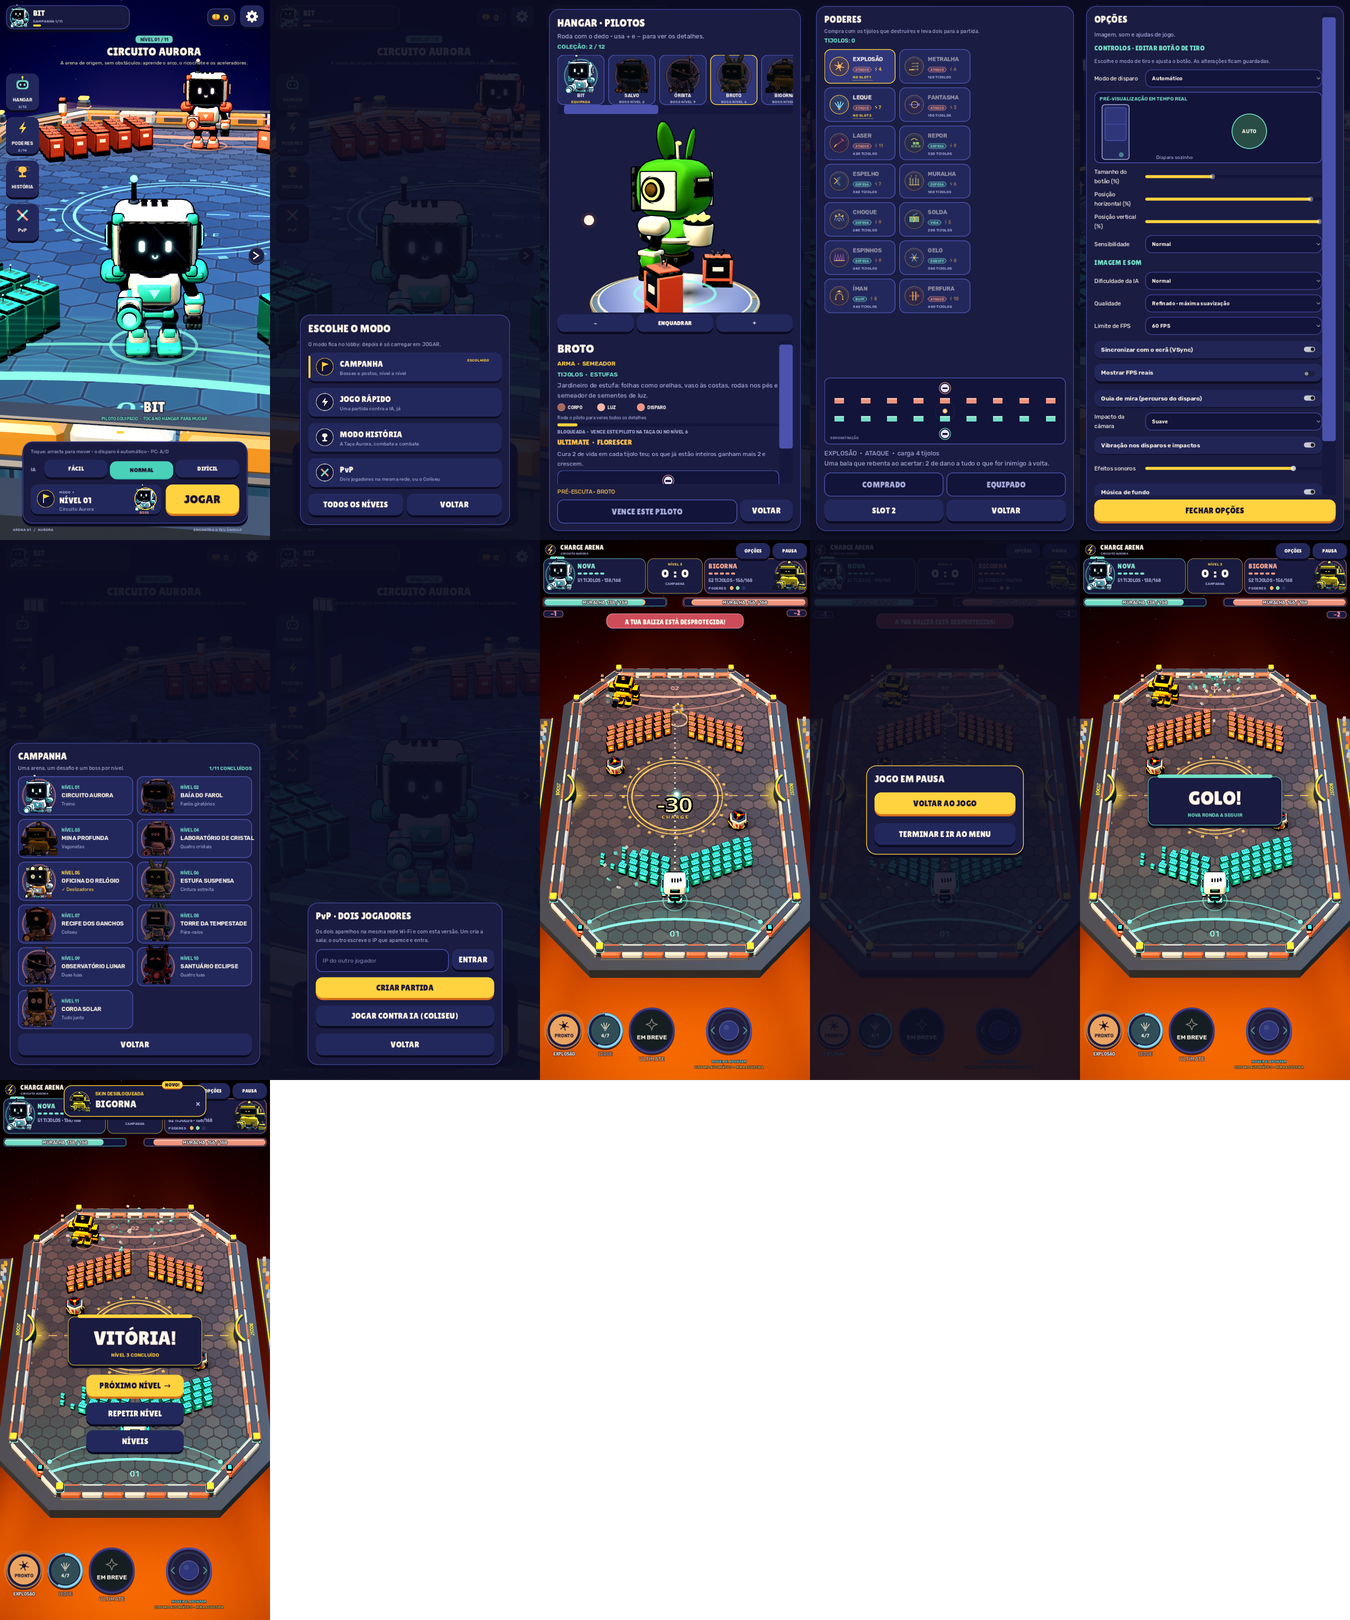
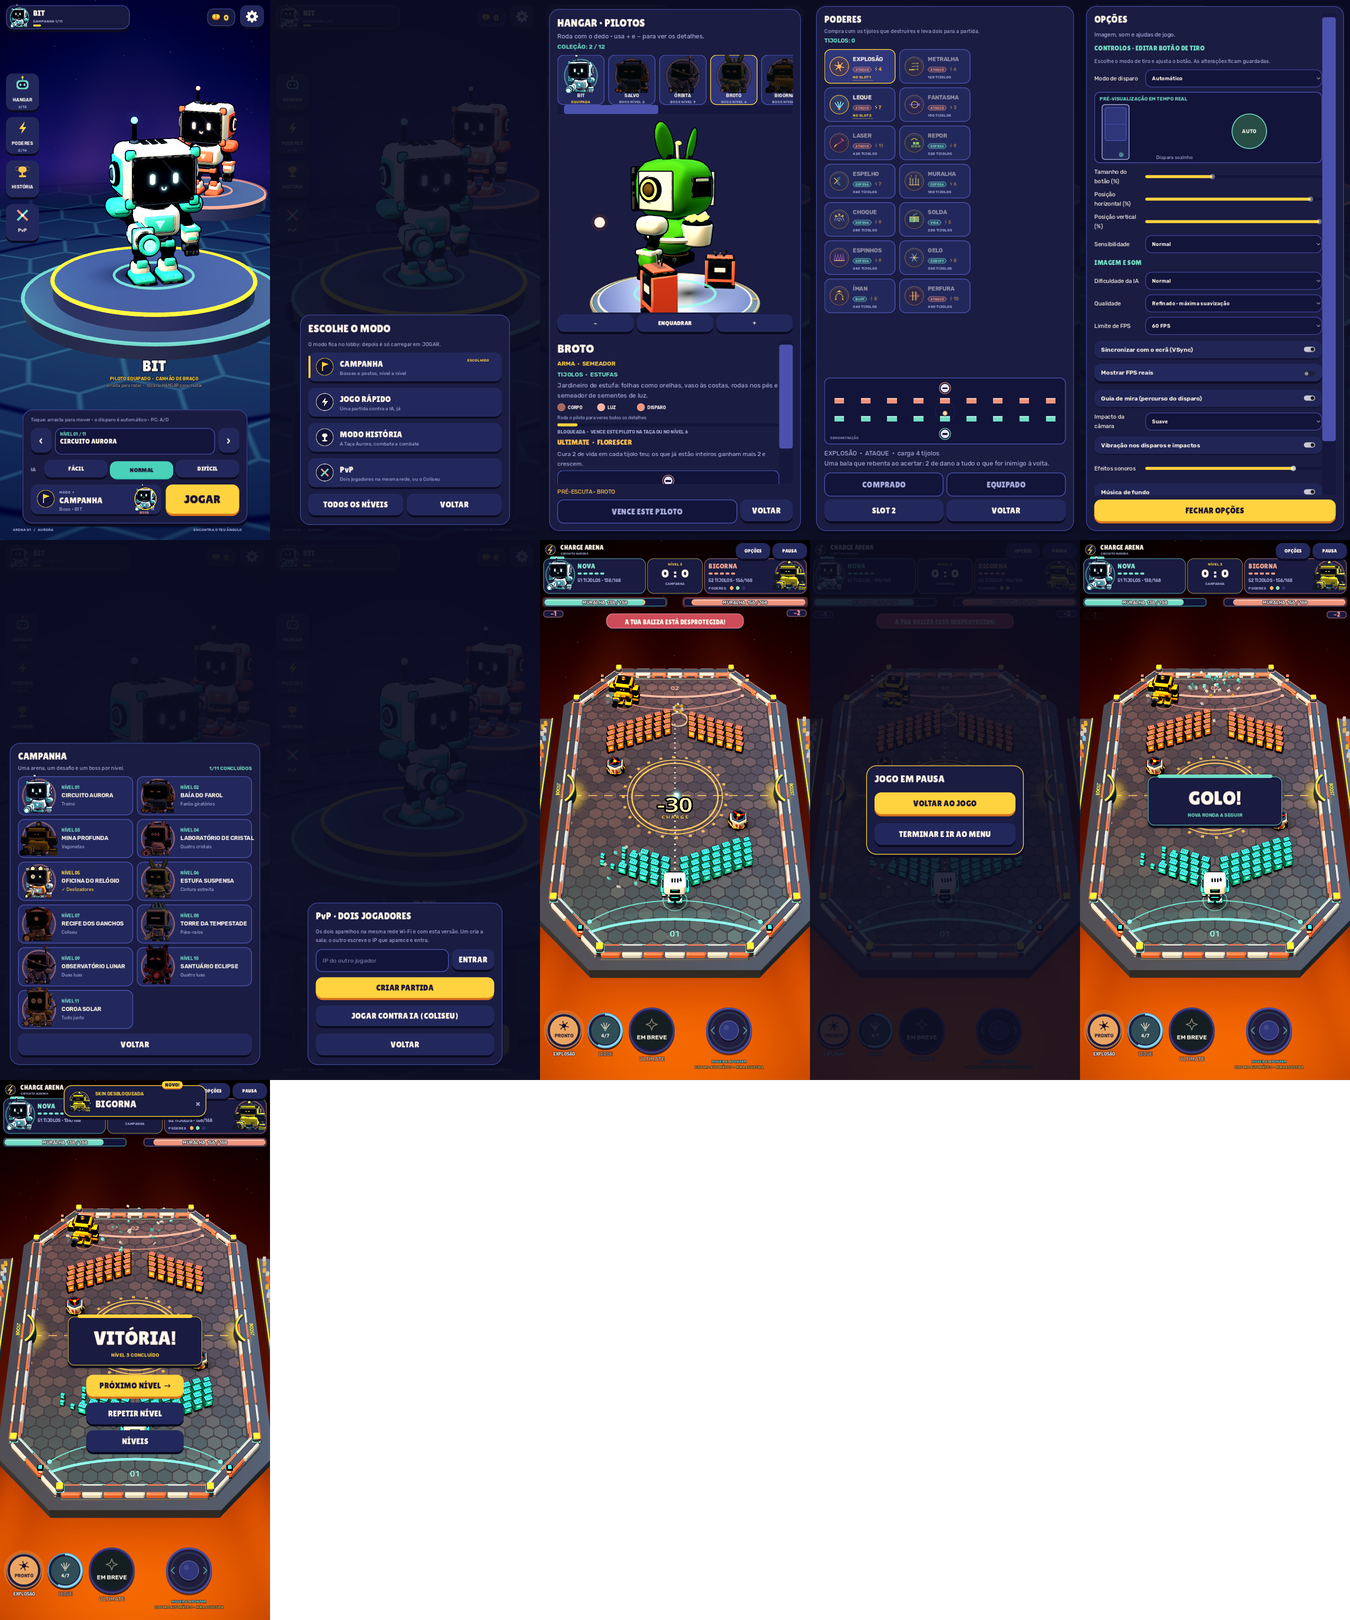
feat(lobby): piloto escolhido num pedestal em vez do mapa
O lobby deixa de mostrar a arena do nível: o piloto selecionado fica
num pedestal, virado para a câmara e a balançar devagar, com o boss do
nível num pedestal mais pequeno atrás. Arrastar sobre o palco roda o
piloto. O nível escolhe-se numa faixa na doca (‹ NÍVEL · NOME ›), e o
cartão do modo mostra o boss.

Claude-Session: https://claude.ai/code/session_013KJk6qvd1GbsmYQztrRAPe

diff --git a/docs/DIRECAO-ARTE.md b/docs/DIRECAO-ARTE.md
@@ -65,8 +65,8 @@ estrela que gira; as balizas têm postes do kit.
 
 - **Lobby** (`scripts/lobby.gd`): perfil do piloto e progresso da campanha no topo, carteira de
   tijolos e opções à direita; na coluna da esquerda Hangar, Poderes, História e PvP; ao centro o
-  teu piloto em 3D, virado para ti, com a câmara a balançar devagar e a arena do nível com o boss
-  ao fundo (desliza ou usa as setas para mudar de nível); em baixo a doca com a
+  teu piloto em 3D num pedestal, virado para ti (arrasta para o rodar), com o boss do nível num
+  pedestal mais pequeno ao fundo; na doca a faixa do nível (‹ ›), em baixo a doca com a
   dificuldade da IA, o cartão do modo (com o boss do nível) e o botão JOGAR. Tocar no cartão abre
   a folha dos modos: Campanha, Jogo Rápido, Modo História e PvP.
 - **Kit** (`scripts/ui_kit.gd`): paleta índigo noturna, um só amarelo-sol para a ação principal,
